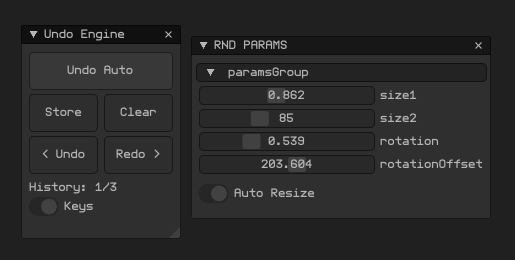
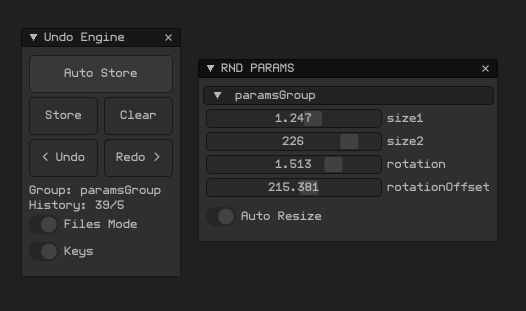
+

diff --git a/src/ofxSurfingUndoHelper.cpp b/src/ofxSurfingUndoHelper.cpp
@@ -17,7 +17,7 @@ void ofxSurfingUndoHelper::setup(ofParameterGroup &g) {
 	path_AppState = path_Global + "SurfingUndoHelper_AppSession.json";
 
 	params_AppState.add(bGui_UndoEngine);
-	params_AppState.add(bUndoAuto);
+	params_AppState.add(bAutoStore);
 	params_AppState.add(bFilesMode);
 	params_AppState.add(bKeys);
 
@@ -147,8 +147,16 @@ void ofxSurfingUndoHelper::doRefreshUndoParams() {
 		ofDeserialize(undoXmlsParams, _group);// load the ofParameterGroup
 
 		std::string str;
-		str = "UNDO HISTORY: " + ofToString(undo_StringParams.getUndoLength()) + "/";
-		str += ofToString(undo_StringParams.getRedoLength());
+		
+		if (!bFilesMode) {
+			str = "UNDO HISTORY: " + ofToString(undo_StringParams.getUndoLength()) + "/";
+			str += ofToString(undo_StringParams.getRedoLength());
+		}
+		
+		if (bFilesMode) {
+			str = "History: " + ofToString(undo_StringParamsFiles.getUndoLength()) + "/";
+			str += ofToString(undo_StringParamsFiles.getRedoLength());
+		}
 
 		//str += "\n";
 		//str += "DESCRIPTOR\n";
@@ -189,7 +197,7 @@ void ofxSurfingUndoHelper::drawImGui() {
 				ofxImGuiSurfing::refreshImGui_WidgetsSizes(_w100, _w50, _w33, _w25, _h);
 				_h *= 2;
 
-				ofxImGuiSurfing::AddBigToggle(bUndoAuto);
+				ofxImGuiSurfing::AddBigToggle(bAutoStore);
 
 				if (ImGui::Button("Store", ImVec2(_w50, _h)))
 				{

diff --git a/src/ofxSurfingUndoHelper.h b/src/ofxSurfingUndoHelper.h
@@ -48,12 +48,12 @@ private:
 public:
 
 	ofParameter<bool> bGui_UndoEngine{ "Undo Engine", false };
-	ofParameter<bool> bUndoAuto{ "Undo Auto", true };
+	ofParameter<bool> bAutoStore{ "Auto Store", true };
 	ofParameter<bool> bFilesMode{ "Files Mode", false };
 
 	void doStoreUndo();// store current point to undo history
 	void doStoreUndoWhenAuto() {
-		if (bUndoAuto) doStoreUndo();
+		if (bAutoStore) doStoreUndo();
 	}; // store current point to undo history when auto mode is enabled
 
 private:
